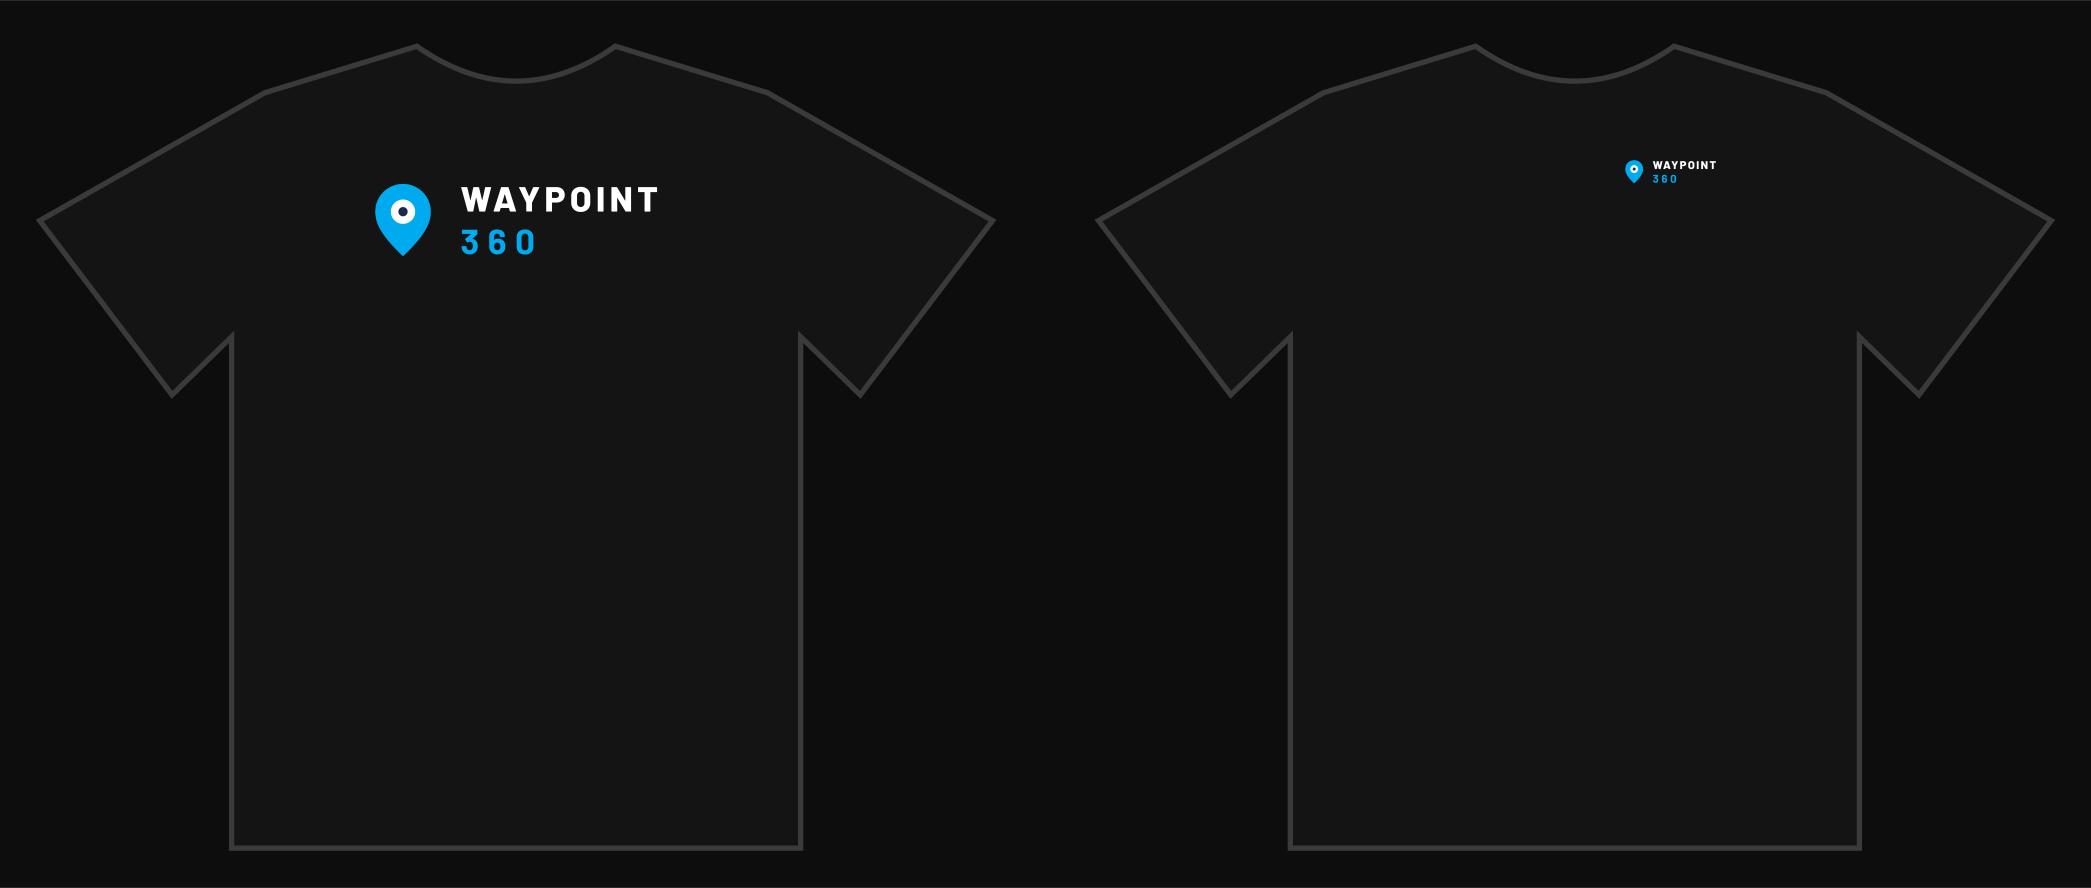
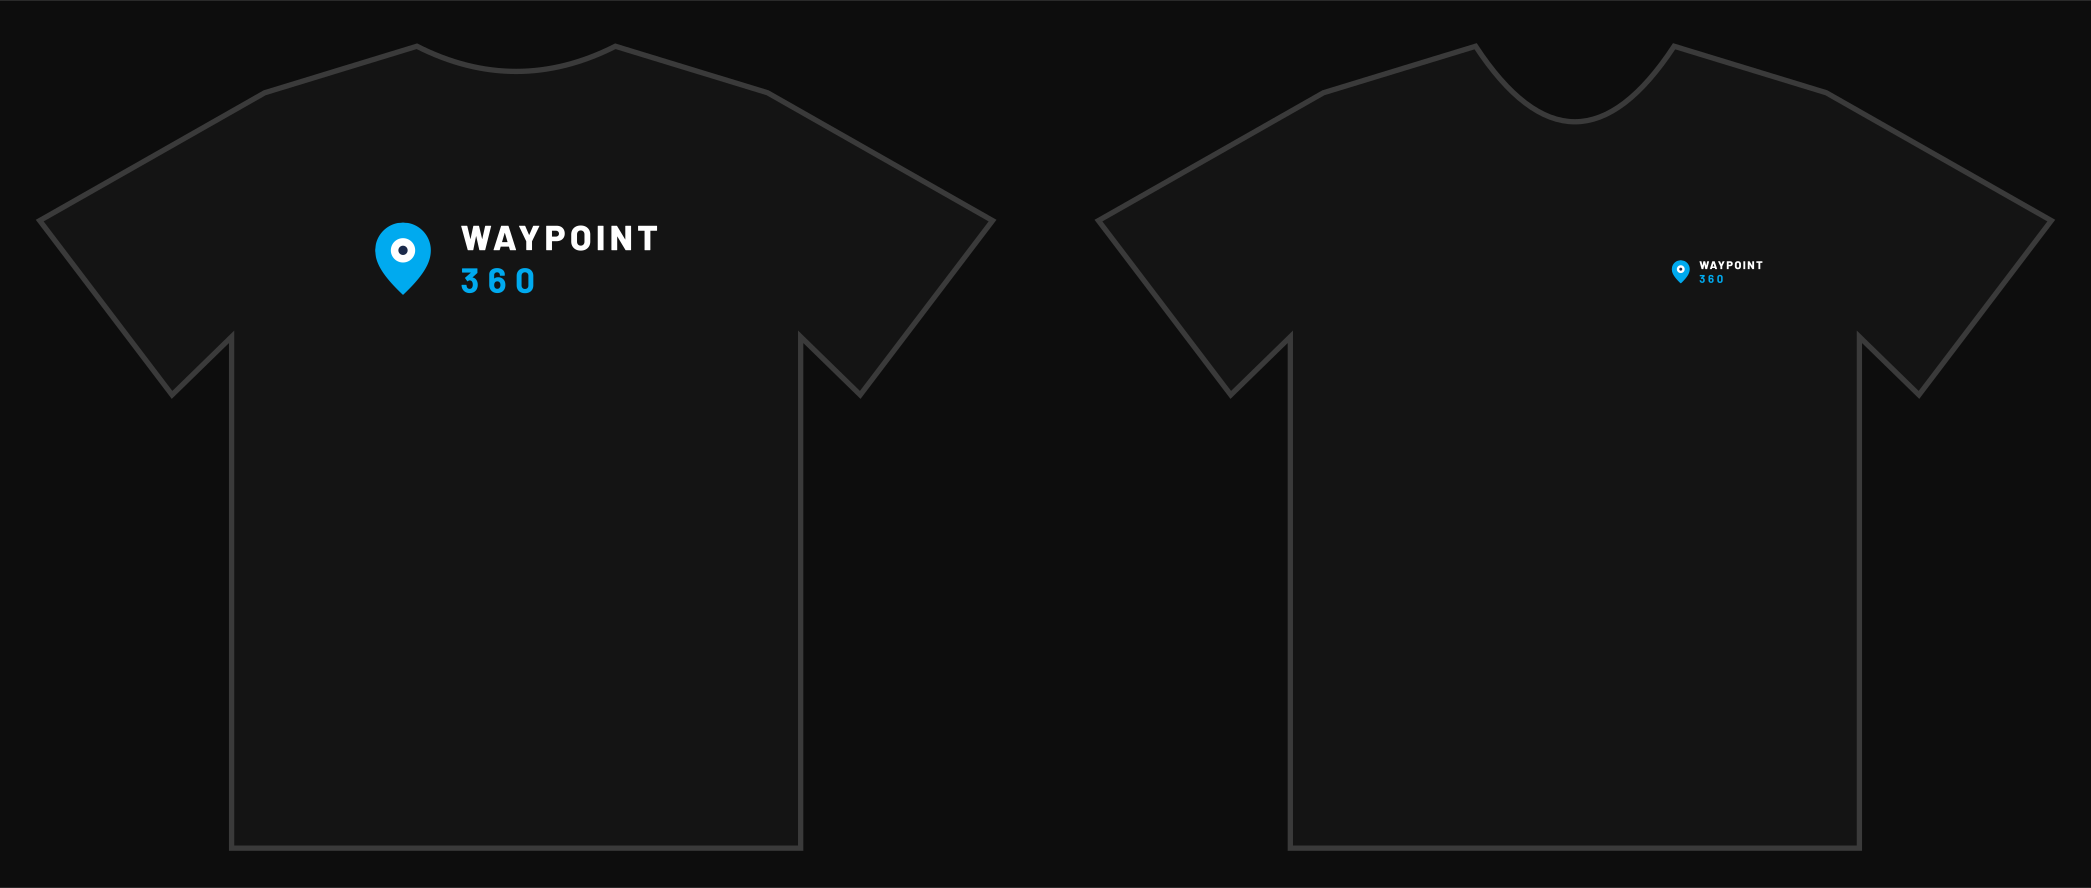
fix(brand): le coeur se cote sous la couture d'epaule, et le devant a sa propre encolure
Denis : « le logo coeur n'est pas sur le coeur, il semble centré vers le
haut. Et le logo du dos me semble toujours trop haut à l'oeil. »

Deux défauts derrière, et l'un des deux venait de ma correction
précédente.

Le dessin servait la MÊME encolure devant et derrière. Un col rond
descend d'environ 2 cm derrière et 7 cm devant : tracer le col du dos sur
le devant faisait paraître le logo de poitrine collé au col, quelle que
soit sa cote.

Et la cote du coeur partait du col. Arklavo dit explicitement l'inverse,
avec sa raison : les cols varient en hauteur d'une marque à l'autre, les
coutures d'épaule non. Coté sous la couture d'épaule, mon 90 mm valait
126 mm, en dehors des deux fourchettes que donnent les guides — alors que
la valeur d'août, 224 mm, était dans la fourchette majoritaire. J'avais
donc dégradé une cote qui était juste, ce que Denis a vu à l'oeil.

  dos, haut du motif sous l'encolure arriere      84 mm -> 150 mm
  coeur, centre sous le point haut d'epaule      126 mm -> 224 mm
  coeur, ecart a l'axe                            95 mm -> 141 mm

Les guides divergent vraiment sur le coeur : arklavo donne 102 mm sous
l'épaule, vistaprint et printify 178 à 229 mm. « Left chest » n'est pas
défini par une mesure unique. Les trois positions ont été rendues côte à
côte et arbitrées à l'oeil ; l'écart à l'axe est celui demandé, au centre
de la moitié droite, et il est dérivé de la largeur plutôt que saisi,
[…]

diff --git a/brand/tshirt/README.md b/brand/tshirt/README.md
@@ -48,32 +48,49 @@ ligne dans `generate/build.mjs`.
 
 ## Où poser les motifs
 
-⛔ **Ces trois cotes étaient inventées jusqu'au 2026-09-13.** La planche d'origine posait
-le dos à 90 mm sous l'encolure, le cœur à 190 mm sous la couture d'épaule, sur un vêtement
-de 478 × 720 mm. Aucun de ces nombres n'était sourcé : le commit d'origine documente les
-polices, la colorimétrie et le recadrage, et ne dit rien du placement. Denis a trouvé le
-dos haut ; mesure faite, il l'était, et le cœur l'était bien davantage.
+⛔ **Ces cotes étaient inventées jusqu'au 2026-09-13.** La planche d'origine posait le dos
+à 90 mm sous l'encolure, le cœur à 190 mm sous la couture d'épaule, sur un vêtement de
+478 × 720 mm. Aucun de ces nombres n'était sourcé : le commit d'origine documente les
+polices, la colorimétrie et le recadrage, et ne dit rien du placement.
 
-| | avant | maintenant | référence |
+⛔ **ET LA PREMIÈRE CORRECTION A EMPIRÉ LE CŒUR.** Cotée sous l'encolure, elle l'avait
+remonté à 126 mm sous le point haut d'épaule, en dehors des deux fourchettes que donnent
+les guides. La valeur d'août, 224 mm, était elle dans la fourchette majoritaire. Deux
+défauts l'avaient masquée : le dessin servait la MÊME encolure devant et derrière, alors
+qu'un col rond descend d'environ 2 cm derrière et 7 cm devant, et la cote partait du col.
+
+| | avant | maintenant | repère |
 |---|---|---|---|
-| Dos, haut du motif sous l'encolure | 84 mm | **102 mm** | 76 à 102 mm |
-| Cœur, centre sous l'encolure | 192 mm | **90 mm** | 64 à 114 mm |
-| Cœur, écart à l'axe | 70 mm | **95 mm** | 76 à 102 mm |
+| Dos, haut du motif | 84 mm | **150 mm** | sous l'encolure arrière |
+| Cœur, centre | 126 mm | **224 mm** | sous le point haut d'épaule |
+| Cœur, écart à l'axe | 95 mm | **141 mm** | moitié de la demi-largeur |
 | Silhouette | 478 × 720 mm | **565 × 750 mm** | Creator 2.0 taille L |
 
-⚠ **Notre dos n'est pas un « full back ».** Il fait 9,8 × 3,6 pouces : c'est un
-**back yoke**, que le guide de screenprinting.com pose à 4 pouces du col, avec un format de
-référence de 12 × 4 pouces. Confondre les deux catégories donne une cote plausible et
-fausse.
+⚠ **LE CŒUR SE COTE SOUS LA COUTURE D'ÉPAULE, JAMAIS SOUS LE COL**, et arklavo dit
+pourquoi : « les cols varient en hauteur d'une marque à l'autre, les coutures d'épaule
+non ». C'est l'erreur qui avait fait remonter ce logo.
 
-⚠ **Tout se mesure depuis l'encolure**, y compris le cœur. L'ancienne planche mélangeait
-deux références — « sous l'encolure » au dos, « sous la couture d'épaule » devant — ce qui
-rendait ses deux cotes incomparables entre elles, et incomparables aux guides qui partent
-tous du col.
+⚠ **Les guides divergent vraiment sur le cœur** : arklavo donne 102 mm sous l'épaule,
+vistaprint et printify 178 à 229 mm. « Left chest » n'est pas défini par une mesure unique.
+Les trois positions ont été rendues côte à côte et **arbitrées à l'œil par Denis** le
+2026-09-13 ; l'écart à l'axe est le sien, « au centre de la moitié droite », et il est
+dérivé de la largeur plutôt que saisi.
+
+⚠ **Notre dos n'est pas un « full back ».** Il fait 9,8 × 3,6 pouces : c'est un
+**back yoke**, que screenprinting.com pose à 4 pouces du col, avec un format de référence
+de 12 × 4 pouces. Confondre les deux catégories donne une cote plausible et fausse. 150 mm
+est en dessous de cette référence, choisi à l'œil : au format standard, le motif paraissait
+perché en haut d'un grand vide.
+
+⚠ **Les deux profondeurs d'encolure du dessin, 25 et 75 mm, ne sont pas sourcées.** La
+fiche produit Creator 2.0 ne donne que trois cotes — demi-poitrine, longueur, manche. Ce
+sont des ordres de grandeur de col rond, et elles ne servent qu'au DESSIN : la cote du cœur
+part du point haut d'épaule, précisément pour ne dépendre d'aucune d'elles.
 
 Sources, relevées le 2026-09-13 :
 
 - [screenprinting.com — guide des placements standard](https://www.screenprinting.com/blogs/news/t-shirt-design-placement-guide-your-easy-reference-for-industry-standard-layouts)
+- [arklavo — guide de placement des logos](https://arklavo.com/blogs/custom-apparel-guide/tshirt-logo-placement-guide)
 - [freshprintssupply.com — tableau des mesures](https://freshprintssupply.com/blog/t-shirt-print-placement-size-chart-standard-measurements-for-front-back-chest-sleeves/)
 - [Fiche produit Stanley/Stella Creator 2.0 STTU169](https://api.stanleystella.com/ProductSheet/en_US/STTU169.pdf)
 
